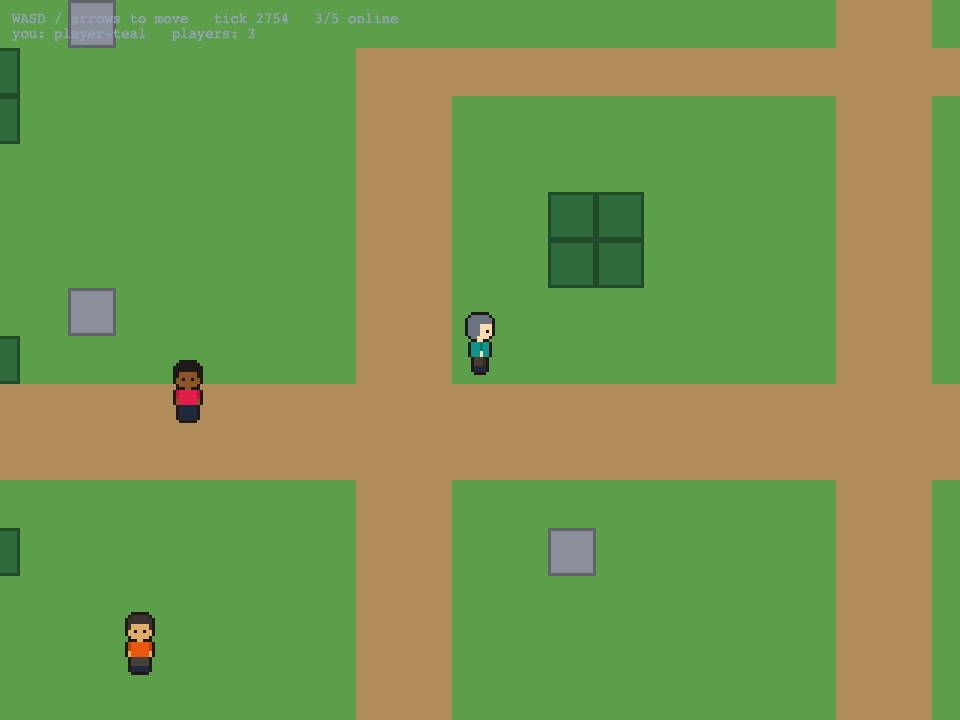
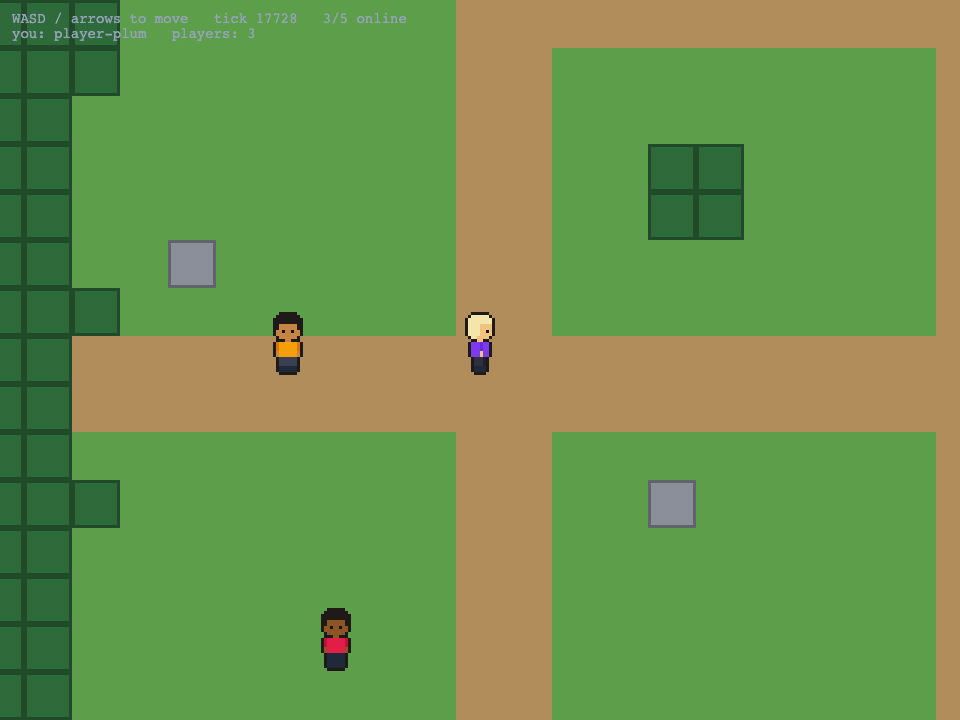
Review and security-pass fixes for #20
- pnpm typecheck (and CI) now checks the root tsconfig, so .railway/railway.ts
  is typed against the SDK on every push.
- .railway/railway.ts exports the named partial 'novaland': an apply aimed at
  the wrong project can only delete resources it owns. README says to read
  the plan's project/environment first and never pass --confirm-destructive.
- README setup steps match what apply really does (service and first deploy
  from step 3, domain then redeploy); GitHub app on selected repos only.
- 01-live.mjs: usage line on a missing URL, spelled-out player names, the
  screenshot is a capture step, not an always-passing check; proof re-run
  (11/11 on the live URL). Plan after the domain change shows no drift.
- ADR 0009: partial, typecheck, managed variables.
HSTS in production is ticket #32.

diff --git a/.railway/railway.ts b/.railway/railway.ts
@@ -17,6 +17,10 @@ import { defineRailway, github, project, service } from 'railway/iac';
 
 const REGION = 'us-east4-eqdc4a'; // US East, Virginia: nearest most players.
 
+// A named partial only ever deletes resources it owns. The account holds other projects: if this file is ever
+// applied to the wrong one, nothing there can be removed.
+export const partial = 'novaland';
+
 export default defineRailway(() => {
   const web = service('novaland', {
     // checkSuites is the dashboard's "Wait for CI": a push deploys only after the GitHub Actions checks pass.

diff --git a/README.md b/README.md
@@ -47,7 +47,7 @@ Any host that runs one always-on container with WebSockets works. The public gam
 
 The game is live at **https://novaland-production.up.railway.app**. Every merge to `main` deploys it: Railway's GitHub autodeploy builds the root `Dockerfile` once the CI checks on that commit pass. No deploy token is stored in GitHub. Each deploy starts an empty world. [ADR 0009](docs/decisions/0009-hosting-on-railway.md) has the reasoning.
 
-How the service is built and run lives in [`.railway/railway.ts`](.railway/railway.ts), Railway's Infrastructure as Code: the Dockerfile builder, the `/health` check, restart on failure, exactly one replica in US East that never sleeps, Wait for CI, and `ALLOWED_ORIGINS`. Railway does not read that file on deploy. After changing it, apply it from the repo root with the project linked (Railway CLI 5.42.1 or newer):
+How the service is built and run lives in [`.railway/railway.ts`](.railway/railway.ts), Railway's Infrastructure as Code: the Dockerfile builder, the `/health` check, restart on failure, exactly one replica in US East that never sleeps, Wait for CI, the domain and `ALLOWED_ORIGINS`. `pnpm typecheck` checks it against the SDK's types. Railway does not read that file on deploy. After changing it, apply it from the repo root with the project linked (Railway CLI 5.42.1 or newer):
 
 ```bash
 railway config plan
@@ -57,10 +57,12 @@ railway config plan
 railway config apply
 ```
 
+The Railway account holds other projects. Before applying, check that the plan's header reads `Project novaland` and `Environment production` and that it destroys nothing, and never pass `--confirm-destructive`. The file exports a named partial (`novaland`), which only ever deletes resources it owns, so a wrong link cannot remove anything outside it.
+
 Setting it up from nothing, once. The Novaland project is its own Railway project and shares nothing with other projects in the account:
 
-1. Create the project: `railway init --name novaland` at the repo root, or New Project → Empty Project in the dashboard and then `railway link`.
-2. Connect the repo: give Railway's GitHub app access to `juliogarciag/novaland` (dashboard, Account Settings → GitHub). Then `railway config apply` creates the `novaland` service from `main` with every setting above.
-3. Turn on Wait for CI: the file sets it (`checkSuites`). Check it under the service's Settings → Source, where the toggle shows because `.github/workflows/ci.yml` runs on pushes to `main`.
-4. Generate the domain: `railway domain`, or the service's Settings → Networking → Generate Domain.
-5. Set `ALLOWED_ORIGINS`: the file sets it to `https://${{RAILWAY_PUBLIC_DOMAIN}}`, which Railway fills in from the domain. With no domain yet the value is not a valid origin and the server refuses to boot, so generate the domain before the first deploy, or redeploy after it. A second address (a custom domain) goes into the file as a comma-separated list.
+1. Create the project: `railway init --name novaland` at the repo root (it also links the folder), or New Project → Empty Project in the dashboard and then `railway link`.
+2. Connect the repo: give Railway's GitHub app access to `juliogarciag/novaland` only ("Only select repositories", in the dashboard under Account Settings → GitHub).
+3. Remove the `networking` line from the file, since a new project gets a domain of its own, then run `railway config apply`. It creates the `novaland` service from `main` with every other setting, including Wait for CI (`checkSuites`) and `ALLOWED_ORIGINS`, and Railway starts a first deploy. Wait for CI shows under the service's Settings → Source, because `.github/workflows/ci.yml` runs on pushes to `main`.
+4. Generate the domain: `railway domain --service novaland`, or the service's Settings → Networking → Generate Domain. Put its name back in the file's `networking` line, and check that `railway config plan` reports nothing to do.
+5. `ALLOWED_ORIGINS` is `https://${{RAILWAY_PUBLIC_DOMAIN}}`, which Railway fills in from the domain. Before the domain exists it is not a valid origin and the server refuses to boot, so the first deploy from step 3 fails. Run `railway redeploy --service novaland` once the domain exists. A second address, such as a custom domain, goes into the file as a comma-separated list.

diff --git a/docs/decisions/0009-hosting-on-railway.md b/docs/decisions/0009-hosting-on-railway.md
@@ -11,7 +11,8 @@ The ticket asked for `railway.json`. Railway deprecated that format (Config as C
 ## Decision
 
 - **A Railway project of its own**, `novaland`, with one service, `novaland`. Projects share no variables or private network, so nothing in it can reach the other projects in the account, and nothing there reaches it.
-- **Settings live in `.railway/railway.ts`**: the Dockerfile builder, health check `/health`, restart on failure, one replica in `us-east4-eqdc4a` (US East, nearest most players), `sleepApplication: false`, no overlap between the old deploy and the new one, the GitHub source on `main` with `checkSuites` ("Wait for CI"), and `ALLOWED_ORIGINS`. The SDK's types check the field names at `tsc` time. The SDK is a root dev dependency, pinned in the catalog.
+- **Settings live in `.railway/railway.ts`**: the Dockerfile builder, health check `/health`, restart on failure, one replica in `us-east4-eqdc4a` (US East, nearest most players), `sleepApplication: false`, no overlap between the old deploy and the new one, the GitHub source on `main` with `checkSuites` ("Wait for CI"), and `ALLOWED_ORIGINS`. `pnpm typecheck`, and so CI, checks the field names against the SDK's types. The SDK is a root dev dependency, pinned in the catalog.
+- **The file is a named partial, `novaland`.** A named partial only deletes resources it owns. The account holds unrelated projects, so a file applied while linked to the wrong one cannot remove anything there; the README also says to read the plan's project and environment before applying.
 - **Deploys come from Railway's GitHub autodeploy**, not from the file and not from GitHub Actions. A push to `main` builds once CI on that commit passes. The CI workflow already runs on pushes to `main`, which is what makes the toggle available. No Railway token is stored in GitHub.
 - **The file is applied by hand** from a machine where the human is logged in, after it changes. Railway offers a GitHub Action that applies it on merge, but that needs a project token as a repository secret, and the file will change rarely.
 - **`ALLOWED_ORIGINS` is `https://${{RAILWAY_PUBLIC_DOMAIN}}`**, a Railway reference that resolves to the service's generated domain. It names no secret, so it can live in the repo, and it follows the domain if the domain is regenerated.
@@ -19,7 +20,7 @@ The ticket asked for `railway.json`. Railway deprecated that format (Config as C
 ## Consequences
 
 - Every deploy drops the world and the players in it; they reconnect to a fresh one. Overlap is zero so nobody stays in the old world, and the health check holds traffic until the new process answers.
-- A setting changed in the dashboard drifts from the file. `railway config plan` shows the drift; the file wins on the next apply.
+- A setting changed in the dashboard drifts from the file. `railway config plan` shows the drift; the file wins on the next apply. Variables are managed by the file too: one added only in the dashboard is removed by the next apply. A secret goes in the file as `preserve()`, which keeps the value set in Railway, never as its value.
 - Before the domain exists, `ALLOWED_ORIGINS` resolves to `https://`, which the server rejects at boot. Generate the domain before the first deploy, as the README's steps say.
 - One region and one replica mean players far from US East have more latency. More regions would need more than one world, which is a different design.
 - If the deploy hook itself ever needs to change (say, a GitHub Action that applies the file), it is a new record; this one does not change.

diff --git a/verifications/20-deploy-to-railway/README.md b/verifications/20-deploy-to-railway/README.md
@@ -11,11 +11,12 @@ node 01-live.mjs https://novaland-production.up.railway.app
 
 | Proof | What it shows |
 |---|---|
-| `proof/01-live-railway.txt`, `.json` | 12/12 checks on https://novaland-production.up.railway.app, against the branch deployed by hand before the merge |
+| `proof/01-live-railway.txt`, `.json` | 11/11 checks on https://novaland-production.up.railway.app, against the branch deployed by hand before the merge |
 | `proof/01-live-railway-two-players.png` | Both players on the live URL, each drawing the other's avatar (and the observer's) |
 | `proof/01-live-local*` | The same script dry-run against `pnpm build` + `pnpm start` in production mode on port 5120, before the deploy |
 | `proof/02-config-plan.txt`, `03-config-apply.txt` | `railway config plan` / `apply` of `.railway/railway.ts` on the new `novaland` project: one service created, nothing else |
+| `proof/02-config-plan-after-domain.txt` | `railway config plan` once the domain was in the file: nothing to change, so the file matches the live service |
 | `proof/04-domain.txt` | The generated domain |
 | `proof/05-branch-deploy-build-log.txt`, `05-branch-deploy-runtime-log.txt` | Railway's build log (Dockerfile builder, health check on `/health` succeeded) and deploy log (`allowedOrigins` resolved to the public URL) for the by-hand deploy of this branch |
 | `proof/06-curl-health.txt` | `curl -si` of `/health` on the public URL |
-| `proof/07-*` | The first automatic deploy after the PR merged: CI passed, then Railway built `main` |
+| `proof/07-*` (added after the merge) | The first automatic deploy after the PR merged: CI passed, then Railway built `main` |
